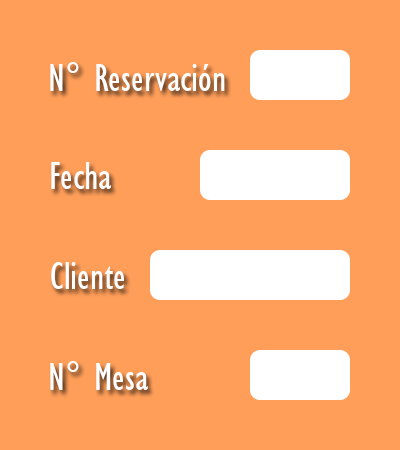
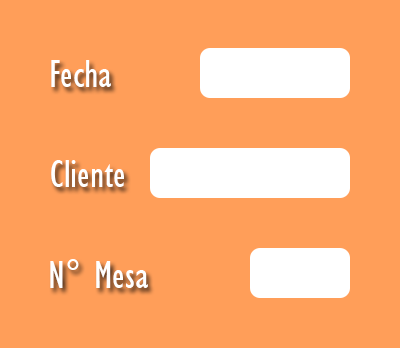
llllll

diff --git a/src/Vistas/Reservas.java b/src/Vistas/Reservas.java
@@ -24,8 +24,9 @@ public class Reservas extends javax.swing.JFrame {
      * Creates new form Reservas
      */
     MesaSQL MeSql = new MesaSQL();
-    ReservaSQL ReSql= new ReservaSQL();
+    ReservaSQL ReSql = new ReservaSQL();
     Reserva Reser = new Reserva();
+
     public Reservas() {
         initComponents();
         this.setLocationRelativeTo(null);
@@ -48,7 +49,6 @@ public class Reservas extends javax.swing.JFrame {
         tblMesas = new javax.swing.JTable();
         jScrollPane1 = new javax.swing.JScrollPane();
         tblReservas = new javax.swing.JTable();
-        txtNReservacion = new javax.swing.JTextField();
         txtCliente = new javax.swing.JTextField();
         jDateChooser1 = new com.toedter.calendar.JDateChooser();
         jButton3 = new javax.swing.JButton();
@@ -127,44 +127,82 @@ public class Reservas extends javax.swing.JFrame {
 
         jPanel1.add(jScrollPane1, new org.netbeans.lib.awtextra.AbsoluteConstraints(470, 360, 380, 190));
 
-        txtNReservacion.setFont(new java.awt.Font("Gill Sans MT Condensed", 0, 18)); // NOI18N
-        txtNReservacion.setBorder(null);
-        jPanel1.add(txtNReservacion, new org.netbeans.lib.awtextra.AbsoluteConstraints(260, 150, 80, 50));
-
         txtCliente.setFont(new java.awt.Font("Gill Sans MT Condensed", 0, 18)); // NOI18N
         txtCliente.setBorder(null);
-        jPanel1.add(txtCliente, new org.netbeans.lib.awtextra.AbsoluteConstraints(159, 350, 180, 50));
+        jPanel1.add(txtCliente, new org.netbeans.lib.awtextra.AbsoluteConstraints(160, 250, 180, 47));
 
         jDateChooser1.setFont(new java.awt.Font("Gill Sans MT Condensed", 0, 18)); // NOI18N
+        jDateChooser1.addMouseMotionListener(new java.awt.event.MouseMotionAdapter() {
+            public void mouseDragged(java.awt.event.MouseEvent evt) {
+                jDateChooser1MouseDragged(evt);
+            }
+            public void mouseMoved(java.awt.event.MouseEvent evt) {
+                jDateChooser1MouseMoved(evt);
+            }
+        });
+        jDateChooser1.addFocusListener(new java.awt.event.FocusAdapter() {
+            public void focusGained(java.awt.event.FocusEvent evt) {
+                jDateChooser1FocusGained(evt);
+            }
+        });
         jDateChooser1.addMouseListener(new java.awt.event.MouseAdapter() {
             public void mouseClicked(java.awt.event.MouseEvent evt) {
                 jDateChooser1MouseClicked(evt);
             }
+            public void mouseEntered(java.awt.event.MouseEvent evt) {
+                jDateChooser1MouseEntered(evt);
+            }
+            public void mouseExited(java.awt.event.MouseEvent evt) {
+                jDateChooser1MouseExited(evt);
+            }
+            public void mousePressed(java.awt.event.MouseEvent evt) {
+                jDateChooser1MousePressed(evt);
+            }
         });
-        jPanel1.add(jDateChooser1, new org.netbeans.lib.awtextra.AbsoluteConstraints(200, 250, 150, 50));
+        jDateChooser1.addInputMethodListener(new java.awt.event.InputMethodListener() {
+            public void caretPositionChanged(java.awt.event.InputMethodEvent evt) {
+                jDateChooser1CaretPositionChanged(evt);
+            }
+            public void inputMethodTextChanged(java.awt.event.InputMethodEvent evt) {
+            }
+        });
+        jDateChooser1.addPropertyChangeListener(new java.beans.PropertyChangeListener() {
+            public void propertyChange(java.beans.PropertyChangeEvent evt) {
+                jDateChooser1PropertyChange(evt);
+            }
+        });
+        jDateChooser1.addVetoableChangeListener(new java.beans.VetoableChangeListener() {
+            public void vetoableChange(java.beans.PropertyChangeEvent evt)throws java.beans.PropertyVetoException {
+                jDateChooser1VetoableChange(evt);
+            }
+        });
+        jPanel1.add(jDateChooser1, new org.netbeans.lib.awtextra.AbsoluteConstraints(200, 140, 150, 60));
 
-        jButton3.setText("buscar reservas en esa fecha");
+        jButton3.setFont(new java.awt.Font("Gill Sans MT Condensed", 0, 18)); // NOI18N
+        jButton3.setText("Aceptar Fecha");
         jButton3.addActionListener(new java.awt.event.ActionListener() {
             public void actionPerformed(java.awt.event.ActionEvent evt) {
                 jButton3ActionPerformed(evt);
             }
         });
-        jPanel1.add(jButton3, new org.netbeans.lib.awtextra.AbsoluteConstraints(190, 300, 190, 30));
+        jPanel1.add(jButton3, new org.netbeans.lib.awtextra.AbsoluteConstraints(200, 200, 150, 30));
 
         txtNMesa.setEditable(false);
         txtNMesa.setFont(new java.awt.Font("Gill Sans MT Condensed", 0, 18)); // NOI18N
         txtNMesa.setBorder(null);
-        jPanel1.add(txtNMesa, new org.netbeans.lib.awtextra.AbsoluteConstraints(259, 450, 80, 50));
+        jPanel1.add(txtNMesa, new org.netbeans.lib.awtextra.AbsoluteConstraints(260, 350, 80, 46));
 
+        jButton4.setFont(new java.awt.Font("Gill Sans MT Condensed", 0, 24)); // NOI18N
         jButton4.setText("Ver todas las reservas y mesas");
         jButton4.addActionListener(new java.awt.event.ActionListener() {
             public void actionPerformed(java.awt.event.ActionEvent evt) {
                 jButton4ActionPerformed(evt);
             }
         });
-        jPanel1.add(jButton4, new org.netbeans.lib.awtextra.AbsoluteConstraints(490, 560, -1, -1));
+        jPanel1.add(jButton4, new org.netbeans.lib.awtextra.AbsoluteConstraints(530, 310, -1, -1));
 
         jLabel1.setFont(new java.awt.Font("Gill Sans MT Condensed", 0, 11)); // NOI18N
+        jLabel1.setHorizontalAlignment(javax.swing.SwingConstants.CENTER);
         jLabel1.setIcon(new javax.swing.ImageIcon(getClass().getResource("/iconos/deReservas.png"))); // NOI18N
         jPanel1.add(jLabel1, new org.netbeans.lib.awtextra.AbsoluteConstraints(0, 100, -1, -1));
 
@@ -192,7 +230,7 @@ public class Reservas extends javax.swing.JFrame {
     }// </editor-fold>//GEN-END:initComponents
 
     private void lblCerrarMouseClicked(java.awt.event.MouseEvent evt) {//GEN-FIRST:event_lblCerrarMouseClicked
-this.dispose();
+        this.dispose();
         //cerrar la ventana
     }//GEN-LAST:event_lblCerrarMouseClicked
 
@@ -201,52 +239,65 @@ this.dispose();
     }//GEN-LAST:event_lblMinimizarMouseClicked
 
     private void tblMesasMouseClicked(java.awt.event.MouseEvent evt) {//GEN-FIRST:event_tblMesasMouseClicked
-      
-             if (evt.getButton() == 1) {
+
+        if (evt.getButton() == 1) {
             int fila = tblMesas.getSelectedRow();
-          int NumeroMesa = Integer.parseInt( tblMesas.getValueAt(fila, 1).toString());
-          String Estado= tblMesas.getValueAt(fila, 3).toString();
-                 if (Estado.equals("Reservado")) {
-                     
-                     JOptionPane.showMessageDialog(null,"Esa mesa ya esta reservada");
-                 }else{
-                 
-                 txtNMesa.setText(String.valueOf(NumeroMesa));
-                 
-                 }
+            int NumeroMesa = Integer.parseInt(tblMesas.getValueAt(fila, 1).toString());
+
+            txtNMesa.setText(String.valueOf(NumeroMesa));
 
         }
     }//GEN-LAST:event_tblMesasMouseClicked
 
     private void jButton1ActionPerformed(java.awt.event.ActionEvent evt) {//GEN-FIRST:event_jButton1ActionPerformed
-if (jDateChooser1.getDate()!=null){    
-                String fecha = jDateChooser1.getDate().toLocaleString();
-                String[] partes = fecha.split(" "); 
-                Reser.setFecha(partes[0]);
-                Reser.setIdMesa(Integer.parseInt(txtNMesa.getText()));
-                Reser.setCliente(txtCliente.getText());
-                ReSql.RegistrarReserva(Reser);
-                
-                
-                
-                 CargarTabla();
-                
+        if (jDateChooser1.getDate() != null) {
 
-}else{
-JOptionPane.showMessageDialog(this,"Por Favor selecciona una fecha");
-}
+            if (!txtCliente.getText().equals("")) {
+                if (!txtNMesa.getText().equals("")) {
+                    String fecha = jDateChooser1.getDate().toLocaleString();
+                    String[] partes = fecha.split(" ");
+                    Reser.setFecha(partes[0]);
+                    Reser.setIdMesa(Integer.parseInt(txtNMesa.getText()));
+                    Reser.setCliente(txtCliente.getText());
+                    ReSql.RegistrarReserva(Reser);
+
+                    jDateChooser1.setDate(null);
+                    txtCliente.setText("");
+                    txtNMesa.setText("");
+
+                    CargarTabla();
+                } else {
+                        JOptionPane.showMessageDialog(null, "Seleccione una mesa");
+                }
+            } else {
+
+                JOptionPane.showMessageDialog(null, "Escriba el nombre del cliente");
+            }
+
+        } else {
+            JOptionPane.showMessageDialog(this, "Por Favor selecciona una fecha");
+        }
         // TODO add your handling code here:
     }//GEN-LAST:event_jButton1ActionPerformed
 
     private void jDateChooser1MouseClicked(java.awt.event.MouseEvent evt) {//GEN-FIRST:event_jDateChooser1MouseClicked
-      
+
     }//GEN-LAST:event_jDateChooser1MouseClicked
 
     private void jButton3ActionPerformed(java.awt.event.ActionEvent evt) {//GEN-FIRST:event_jButton3ActionPerformed
-  try {
-            String fecha = jDateChooser1.getDate().toLocaleString();
-            String[] partes = fecha.split(" ");
-            ReSql.BuscarTablaFecha(tblReservas,partes[0]);      
+        try {
+            if (jDateChooser1.getDate() != null) {
+                String fecha = jDateChooser1.getDate().toLocaleString();
+                String[] partes = fecha.split(" ");
+
+                ///////////busca reserva por fecha/
+                /////ReSql.BuscarTablaFecha(tblReservas,partes[0]); 
+                ReSql.TablaMesasDisponibles(tblMesas, partes[0]);
+            } else {
+                JOptionPane.showMessageDialog(null, "Seleccione una fecha");
+
+            }
+
         } catch (ClassNotFoundException ex) {
             Logger.getLogger(Reservas.class.getName()).log(Level.SEVERE, null, ex);
         } catch (InstantiationException ex) {
@@ -255,15 +306,51 @@ JOptionPane.showMessageDialog(this,"Por Favor selecciona una fecha");
             Logger.getLogger(Reservas.class.getName()).log(Level.SEVERE, null, ex);
         } catch (SQLException ex) {
             Logger.getLogger(Reservas.class.getName()).log(Level.SEVERE, null, ex);
-        }   
+        }
     }//GEN-LAST:event_jButton3ActionPerformed
 
     private void jButton4ActionPerformed(java.awt.event.ActionEvent evt) {//GEN-FIRST:event_jButton4ActionPerformed
 
- CargarTabla();
+        CargarTabla();
 
         // TODO add your handling code here:
     }//GEN-LAST:event_jButton4ActionPerformed
+
+    private void jDateChooser1PropertyChange(java.beans.PropertyChangeEvent evt) {//GEN-FIRST:event_jDateChooser1PropertyChange
+
+    }//GEN-LAST:event_jDateChooser1PropertyChange
+
+    private void jDateChooser1FocusGained(java.awt.event.FocusEvent evt) {//GEN-FIRST:event_jDateChooser1FocusGained
+
+    }//GEN-LAST:event_jDateChooser1FocusGained
+
+    private void jDateChooser1MousePressed(java.awt.event.MouseEvent evt) {//GEN-FIRST:event_jDateChooser1MousePressed
+
+    }//GEN-LAST:event_jDateChooser1MousePressed
+
+    private void jDateChooser1MouseEntered(java.awt.event.MouseEvent evt) {//GEN-FIRST:event_jDateChooser1MouseEntered
+        // TODO add your handling code here:
+    }//GEN-LAST:event_jDateChooser1MouseEntered
+
+    private void jDateChooser1MouseExited(java.awt.event.MouseEvent evt) {//GEN-FIRST:event_jDateChooser1MouseExited
+        // TODO add your handling code here:
+    }//GEN-LAST:event_jDateChooser1MouseExited
+
+    private void jDateChooser1CaretPositionChanged(java.awt.event.InputMethodEvent evt) {//GEN-FIRST:event_jDateChooser1CaretPositionChanged
+        // TODO add your handling code here:
+    }//GEN-LAST:event_jDateChooser1CaretPositionChanged
+
+    private void jDateChooser1VetoableChange(java.beans.PropertyChangeEvent evt)throws java.beans.PropertyVetoException {//GEN-FIRST:event_jDateChooser1VetoableChange
+        // TODO add your handling code here:
+    }//GEN-LAST:event_jDateChooser1VetoableChange
+
+    private void jDateChooser1MouseDragged(java.awt.event.MouseEvent evt) {//GEN-FIRST:event_jDateChooser1MouseDragged
+        // TODO add your handling code here:
+    }//GEN-LAST:event_jDateChooser1MouseDragged
+
+    private void jDateChooser1MouseMoved(java.awt.event.MouseEvent evt) {//GEN-FIRST:event_jDateChooser1MouseMoved
+        // TODO add your handling code here:
+    }//GEN-LAST:event_jDateChooser1MouseMoved
 
     /**
      * @param args the command line arguments
@@ -318,12 +405,11 @@ JOptionPane.showMessageDialog(this,"Por Favor selecciona una fecha");
     private javax.swing.JTable tblReservas;
     private javax.swing.JTextField txtCliente;
     private javax.swing.JTextField txtNMesa;
-    private javax.swing.JTextField txtNReservacion;
     // End of variables declaration//GEN-END:variables
 
     private void CargarTabla() {
         try {
-            MeSql.MostrarTabla(tblMesas);
+            MeSql.MostrarTabla(tblMesas, 2);
         } catch (ClassNotFoundException ex) {
             Logger.getLogger(Reservas.class.getName()).log(Level.SEVERE, null, ex);
         } catch (InstantiationException ex) {
@@ -335,7 +421,7 @@ JOptionPane.showMessageDialog(this,"Por Favor selecciona una fecha");
         }
         try {
             ReSql.SoloTabla(tblReservas);
-            
+
 //To change body of generated methods, choose Tools | Templates.
         } catch (ClassNotFoundException ex) {
             Logger.getLogger(Reservas.class.getName()).log(Level.SEVERE, null, ex);

diff --git a/src/modelo/ReservaSQL.java b/src/modelo/ReservaSQL.java
@@ -88,6 +88,42 @@ public class ReservaSQL extends Conexion {
         return tabla;    
         
         }
+    public JTable TablaMesasDisponibles(JTable tabla, String Dato) throws ClassNotFoundException, InstantiationException, IllegalAccessException, SQLException {
+            PreparedStatement ps=null;
+            Connection con = getConexion();
+            Statement s=con.createStatement();
+                                            //Nombre de la tabla
+            ResultSet rs=s.executeQuery("SELECT IdMesa,NumeroMesa,Capacidad from mesa where mesa.IdMesa not IN (SELECT reserva.IdMesa from mesa,reserva WHERE reserva.IdMesa=mesa.IdMesa and reserva.Fecha='"+Dato+"')");
+            
+            DefaultTableModel modelo=new DefaultTableModel();
+            JTable tab=new JTable(modelo);
+            
+           
+            ResultSetMetaData metaDatos=rs.getMetaData();
+            int NumeroColumnas=metaDatos.getColumnCount();
+            
+            Object[] etiquetas=new Object[NumeroColumnas];
+            
+            for (int i = 0; i < NumeroColumnas; i++) {
+                etiquetas[i]=metaDatos.getColumnLabel(i+1);    
+            }
+            modelo.setColumnIdentifiers(etiquetas);            
+            
+            
+                while(rs.next()){
+                Object[] fila=new Object[modelo.getColumnCount()];
+                
+                for (int i = 0; i < modelo.getColumnCount(); i++) {
+                    fila[i]=rs.getObject(i+1);
+                }
+                modelo.addRow(fila);
+            }
+               rs.close();
+               tabla.setModel(modelo);
+                
+        return tabla;    
+        
+        }
     
      public JTable BuscarTablaFecha(JTable tabla, String dato) throws ClassNotFoundException, InstantiationException, IllegalAccessException, SQLException {
         PreparedStatement ps = null;

diff --git a/src/modelo/MesaSQL.java b/src/modelo/MesaSQL.java
@@ -63,13 +63,19 @@ public class MesaSQL extends Conexion{
     
     
     
-    public JTable MostrarTabla(JTable tabla) throws ClassNotFoundException, InstantiationException, IllegalAccessException, SQLException {
+    public JTable MostrarTabla(JTable tabla, int op) throws ClassNotFoundException, InstantiationException, IllegalAccessException, SQLException {
             PreparedStatement ps=null;
             Connection con = getConexion();
             Statement s=con.createStatement();
+            ResultSet rs;
                                             //Nombre de la tabla
-            ResultSet rs=s.executeQuery("SELECT * FROM mesa");
-            
+                                            if(op==1){
+             rs=s.executeQuery("SELECT * FROM mesa");
+                                            }else{
+                             rs=s.executeQuery("SELECT IdMesa,NumeroMesa,Capacidad FROM mesa");
+                                            
+                                            
+                                            }
             DefaultTableModel modelo=new DefaultTableModel();
             JTable tab=new JTable(modelo);
             
